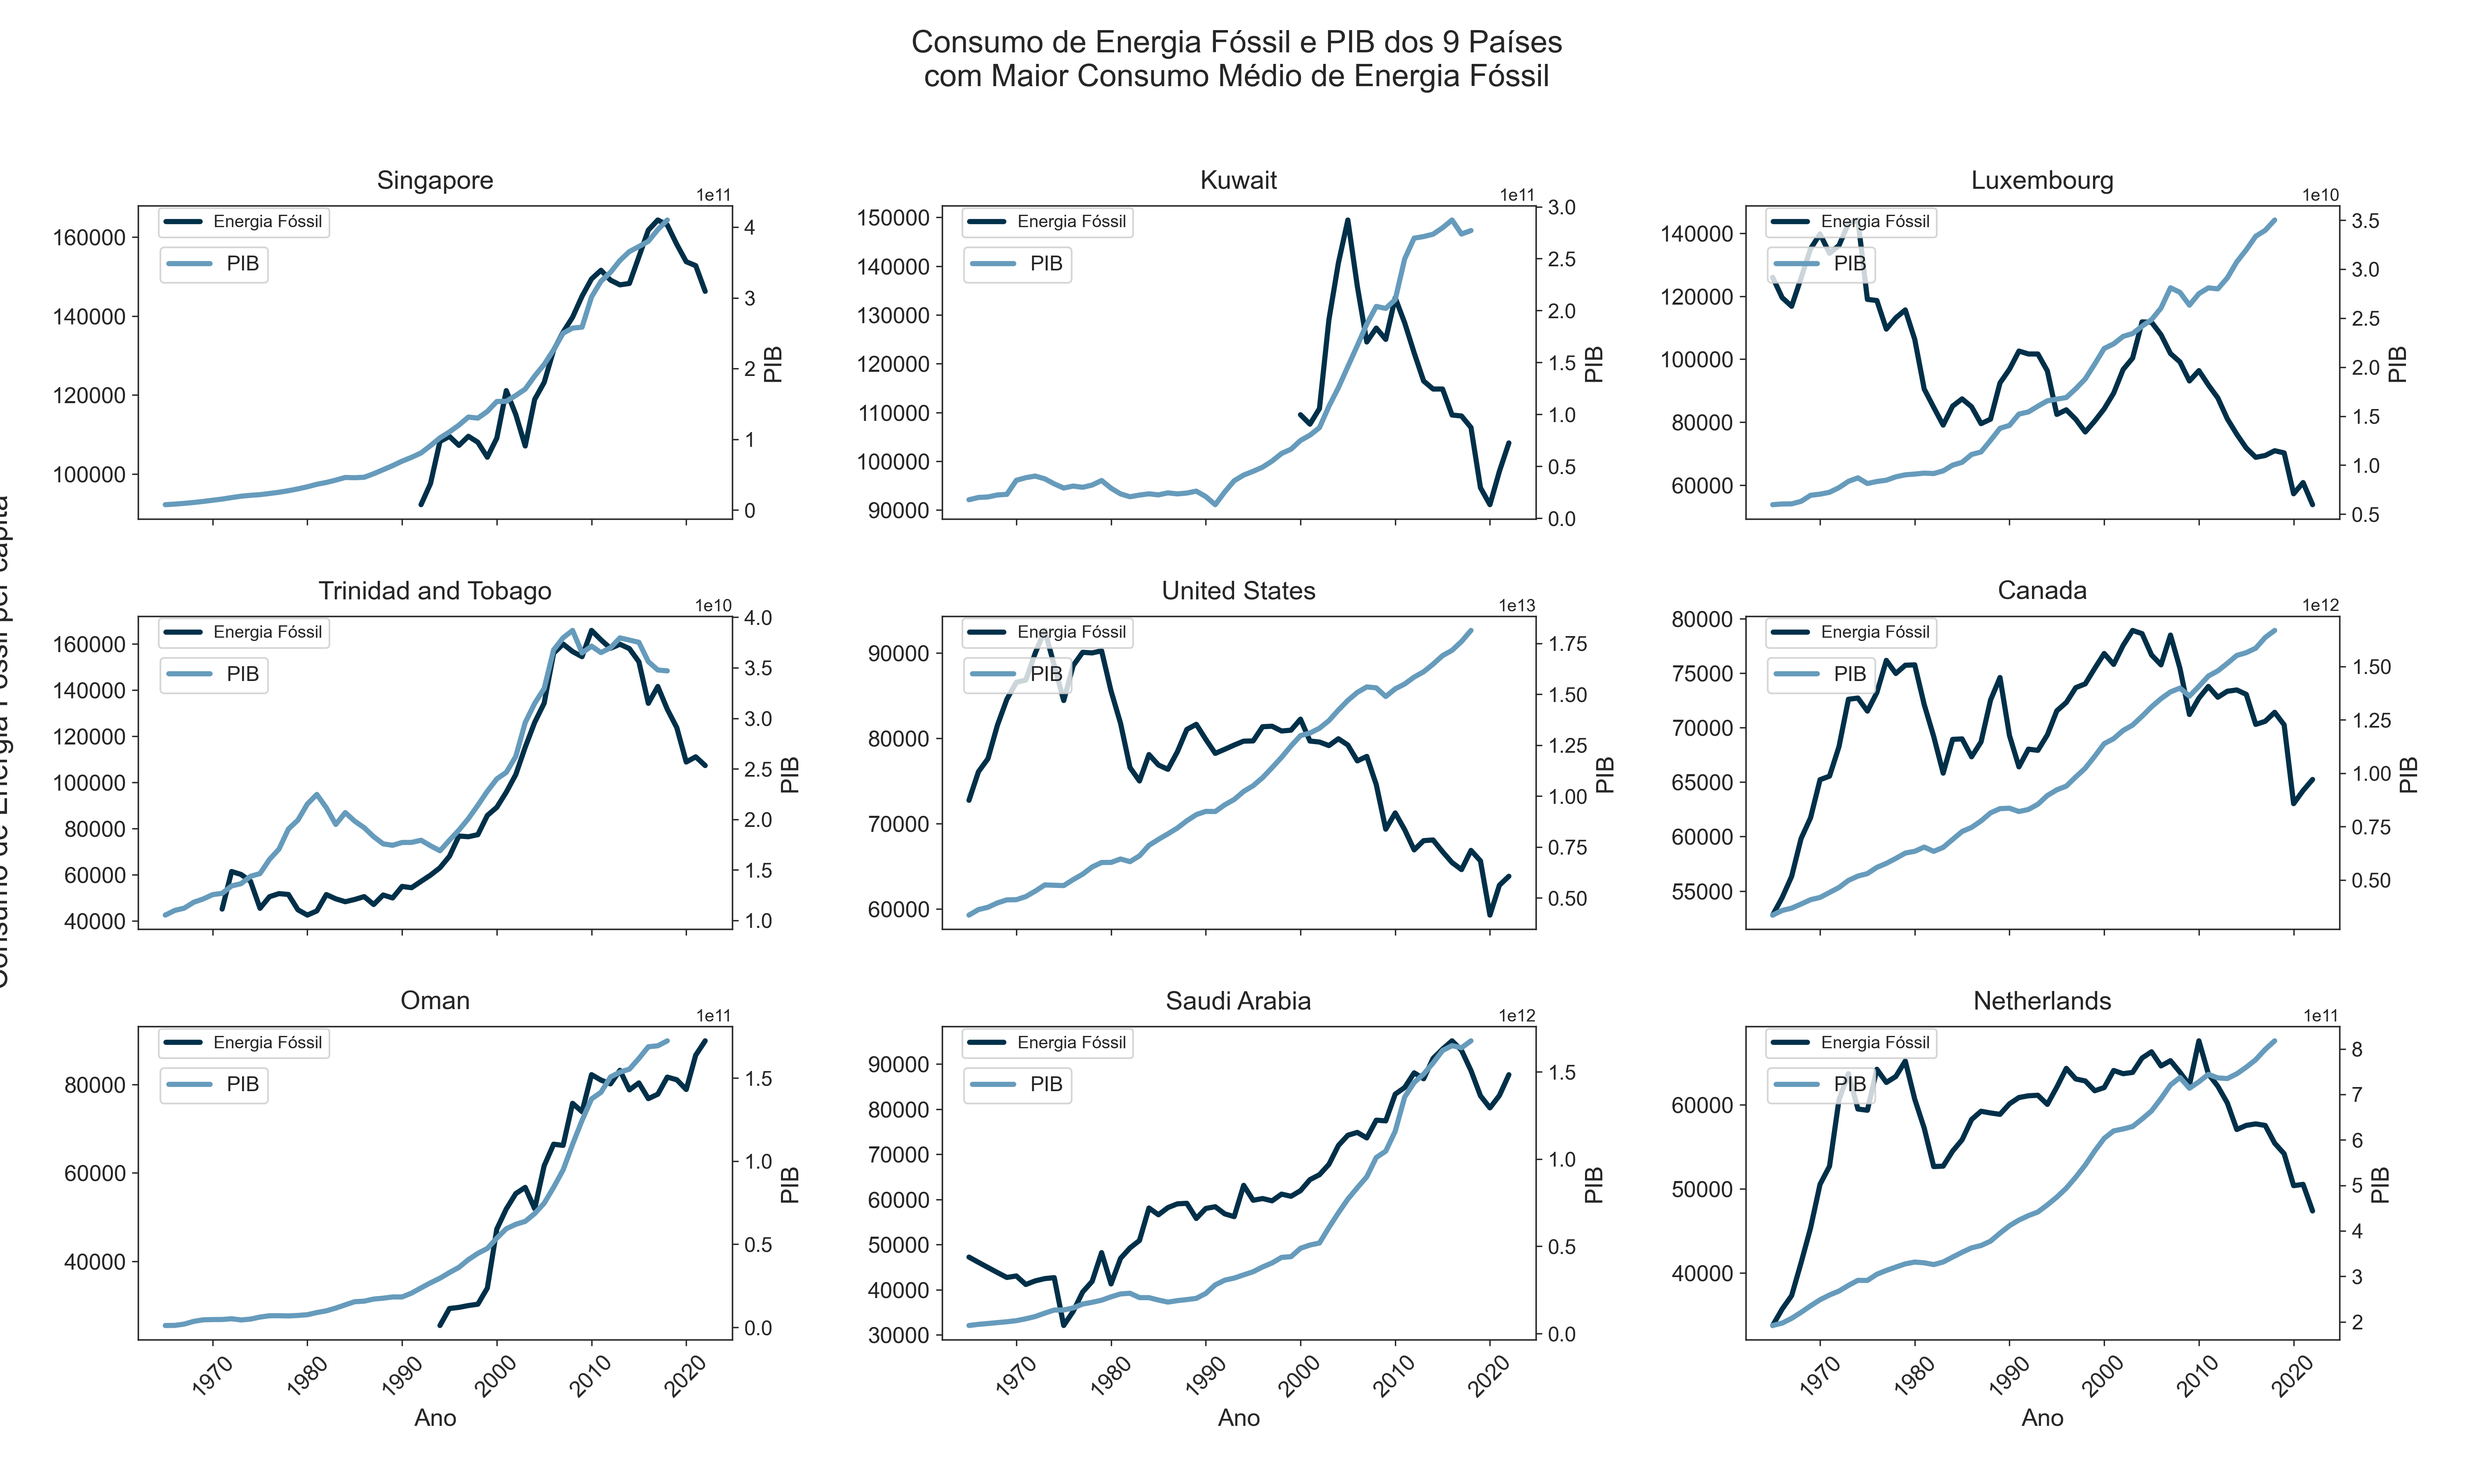
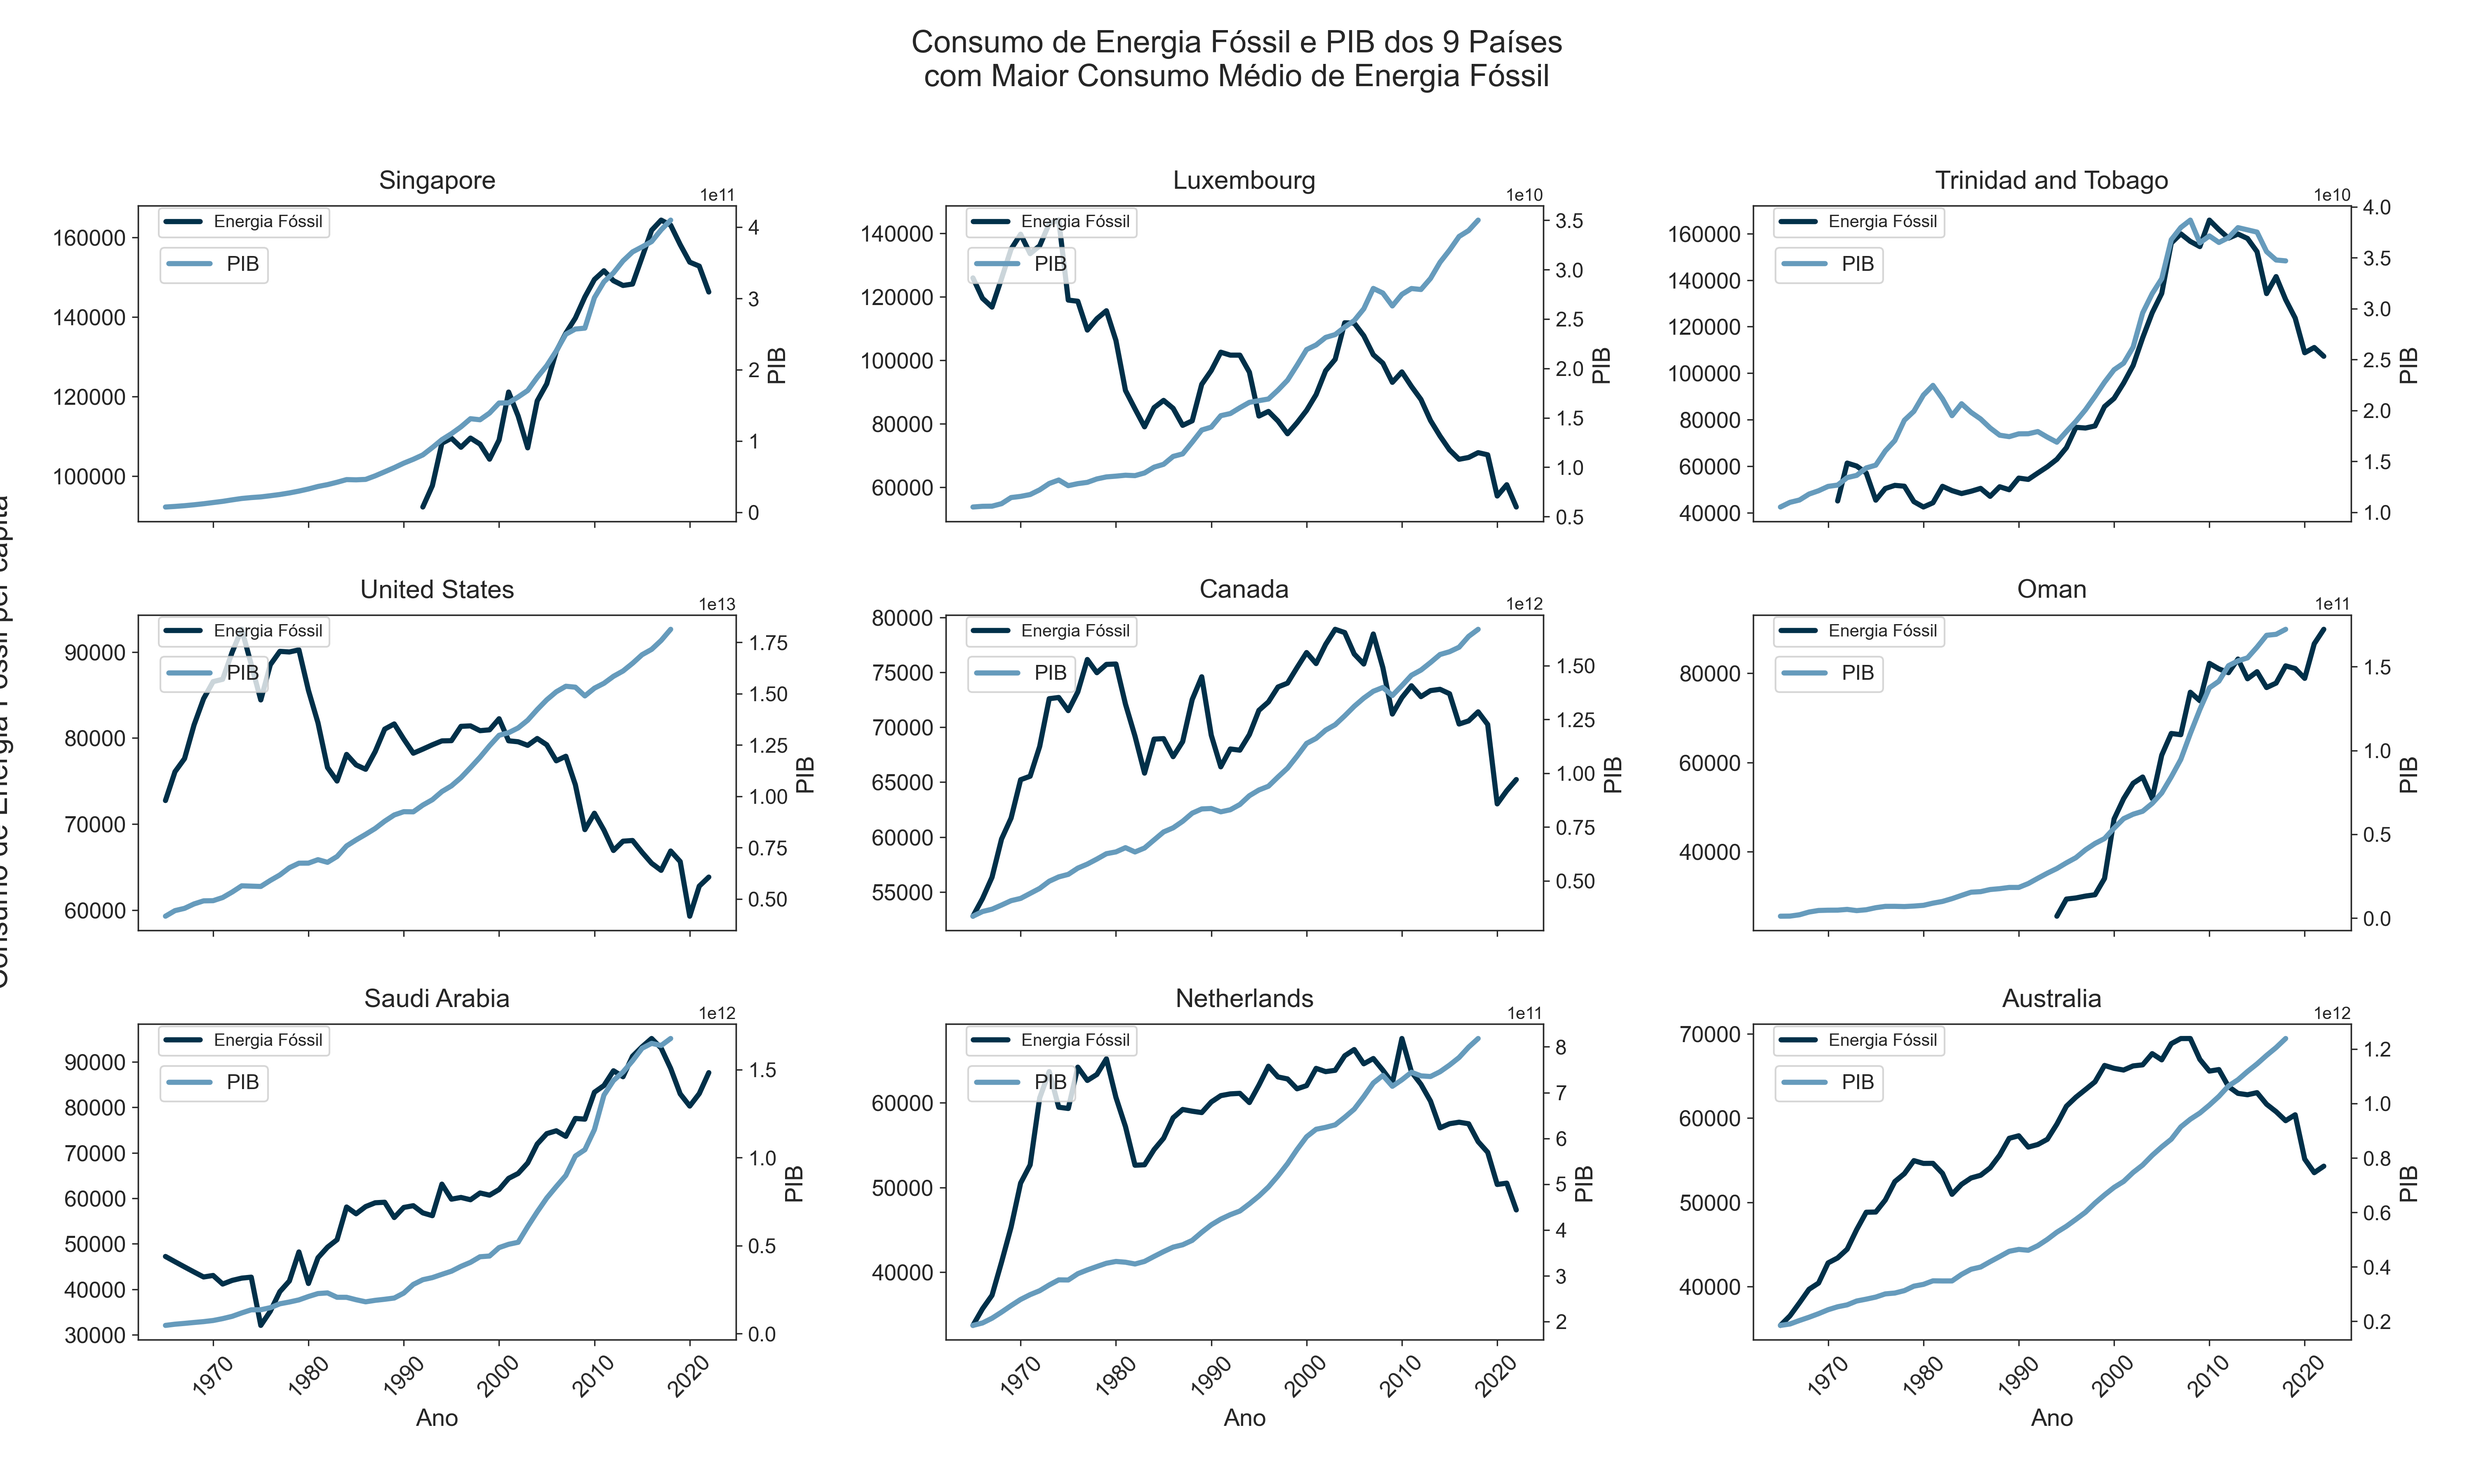
Alterando top NA

diff --git a/src/hipotese_4.py b/src/hipotese_4.py
@@ -79,9 +79,9 @@ def countries_with_na_counts(df, column, top_n=10):
     return result_df
 
 
-na_countries = countries_with_most_na(df, "fossil_energy_per_capita",6)
+na_countries = countries_with_most_na(df, "fossil_energy_per_capita",10)
 
-#print(countries_with_na_counts(df, "fossil_energy_per_capita", 6))
+print(countries_with_na_counts(df, "fossil_energy_per_capita", 10))
 
 for country in na_countries:
     df_auxiliary = df_auxiliary.drop(country)
